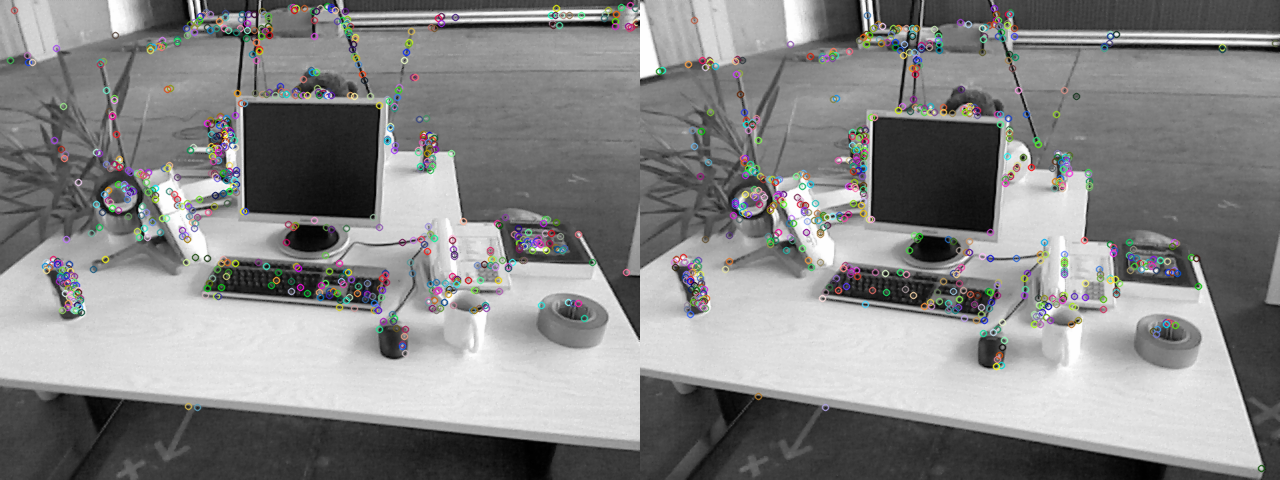
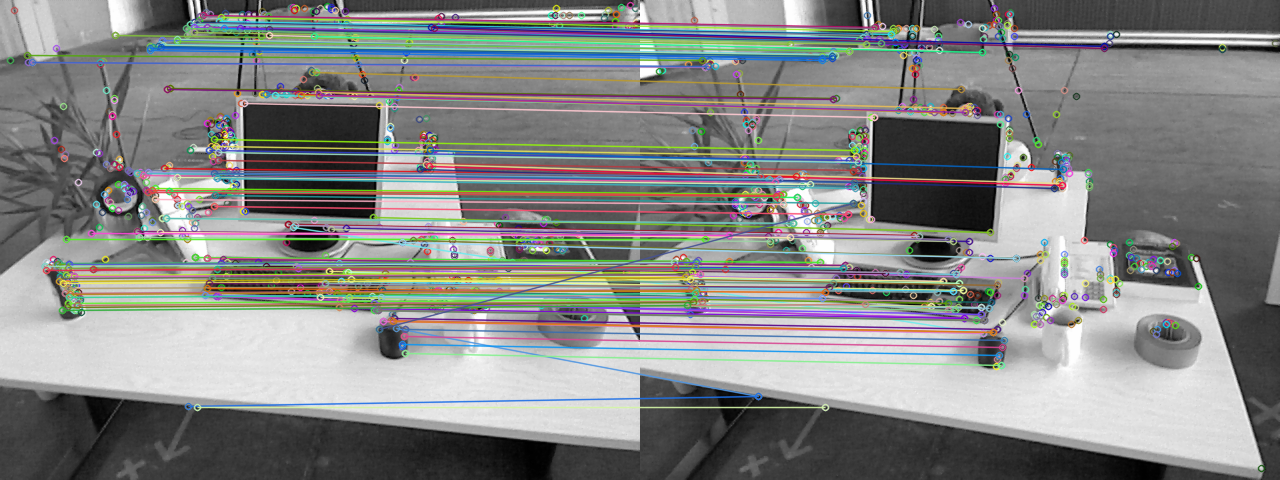
commit

Changed region(s): [[0.0312, 0.2812, 0.8438, 0.7812], [0.0, 0.0312, 0.875, 0.25], [0.125, 0.7812, 0.6562, 0.875]]

diff --git a/hw5/computeORB/computeORB.cpp b/hw5/computeORB/computeORB.cpp
@@ -6,9 +6,10 @@
 #include <opencv2/opencv.hpp>
 
 #include <string>
+#include <chrono>
 
 using namespace std;
-
+using namespace chrono;
 // global variables
 string first_file = "./1.png";
 string second_file = "./2.png";
@@ -457,7 +458,42 @@ void bfMatch(const vector<DescType> &desc1, const vector<DescType> &desc2, vecto
     int d_max = 50;
 
     // START YOUR CODE HERE (~12 lines)
-    // find matches between desc1 and desc2. 
+    // find matches between desc1 and desc2.
+
+
+    steady_clock::time_point t1 = steady_clock::now();
+
+    int d1_num = -1; // number of descriptor1
+    for (auto &d1: desc1)
+    {
+        d1_num++;
+        if(d1.empty()) continue;
+        vector<vector<int>> d1_match(0,vector<int>(2)); // 2D array
+
+        int d2_num = -1; // number of descriptor2
+
+        for(auto &d2: desc2)
+        {
+            d2_num++;
+            if(d2.empty()) continue;
+
+            int HammingDist = 0;
+            for(int n = 0; n<256; n++) { // compare all 256 bits
+                HammingDist += (d1[n] == d2[n])? 0 : 1;
+            }
+            vector<int> d2_HamDis(2);
+            d2_HamDis =  {HammingDist, d2_num};
+            d1_match.push_back(d2_HamDis);
+        }
+        sort(d1_match.begin(), d1_match.end());
+        int dist = d1_match[0][0];
+        if(dist <= d_max){
+            cv::DMatch m(d1_num,d1_match[0][1],dist); // query descriptor index(第一图的特征 ID), train descriptor index (第二个图的特征 ID), and distance between descriptors
+            matches.push_back(m);
+        }
+    }
+    
+    */
     // END YOUR CODE HERE
 
     for (auto &m: matches) {

diff --git a/ref_hw_1_7/hw5/hw5_ws/l5-2-orb-detect/computeORB.cpp b/ref_hw_1_7/hw5/hw5_ws/l5-2-orb-detect/computeORB.cpp
@@ -466,12 +466,13 @@ void bfMatch(const vector<DescType> &desc1, const vector<DescType> &desc2, vecto
     int d1_num = -1;
     for (auto &d1: desc1)
     {
-	d1_num++;     
-	if(d1.empty()) continue;
+		d1_num++;     
+		if(d1.empty()) continue;
         vector<vector<int>> d1_match(0,vector<int>(2));
 
      	int d2_num = -1;
-      	for(auto &d2: desc2)
+    
+    for(auto &d2: desc2)
 	{
 	    d2_num++;
 	    if(d2.empty()) continue;
